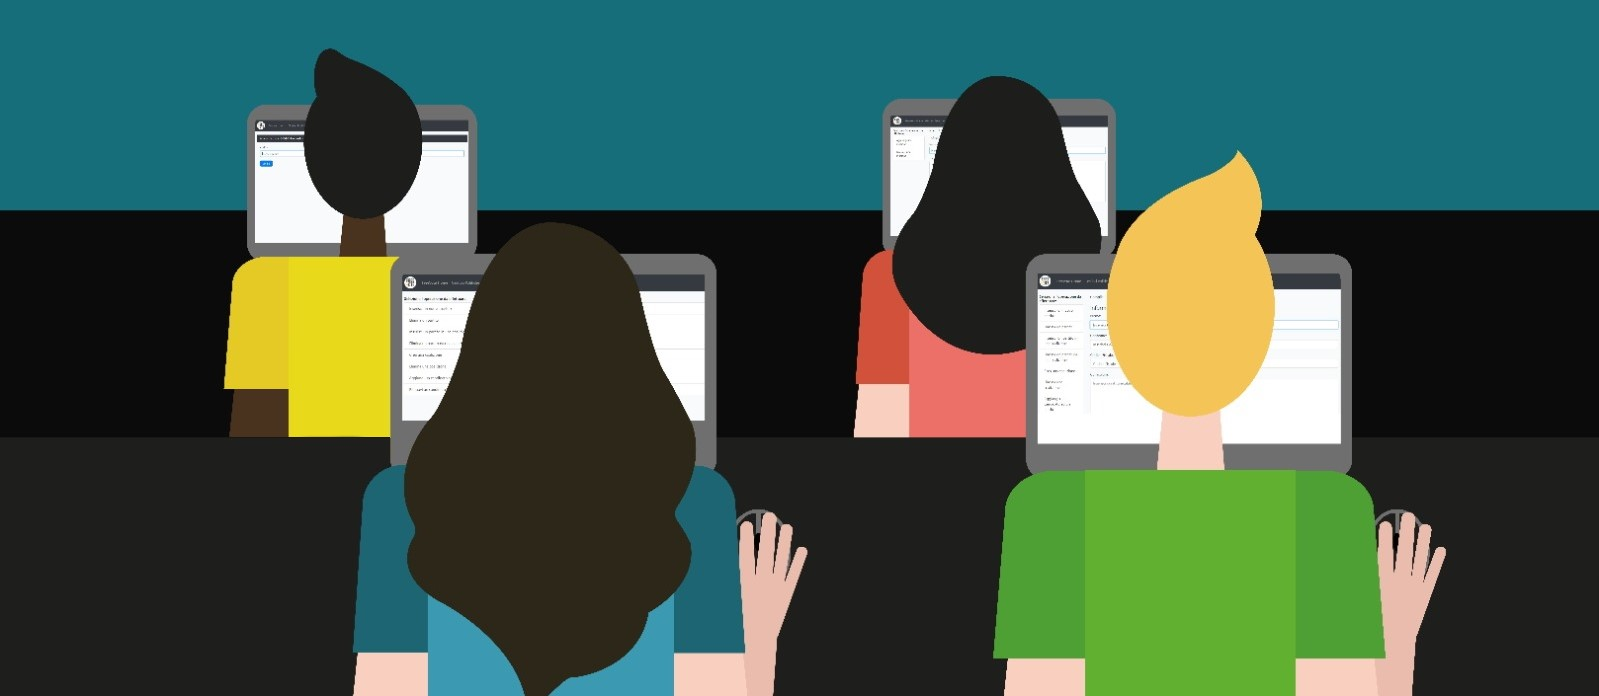
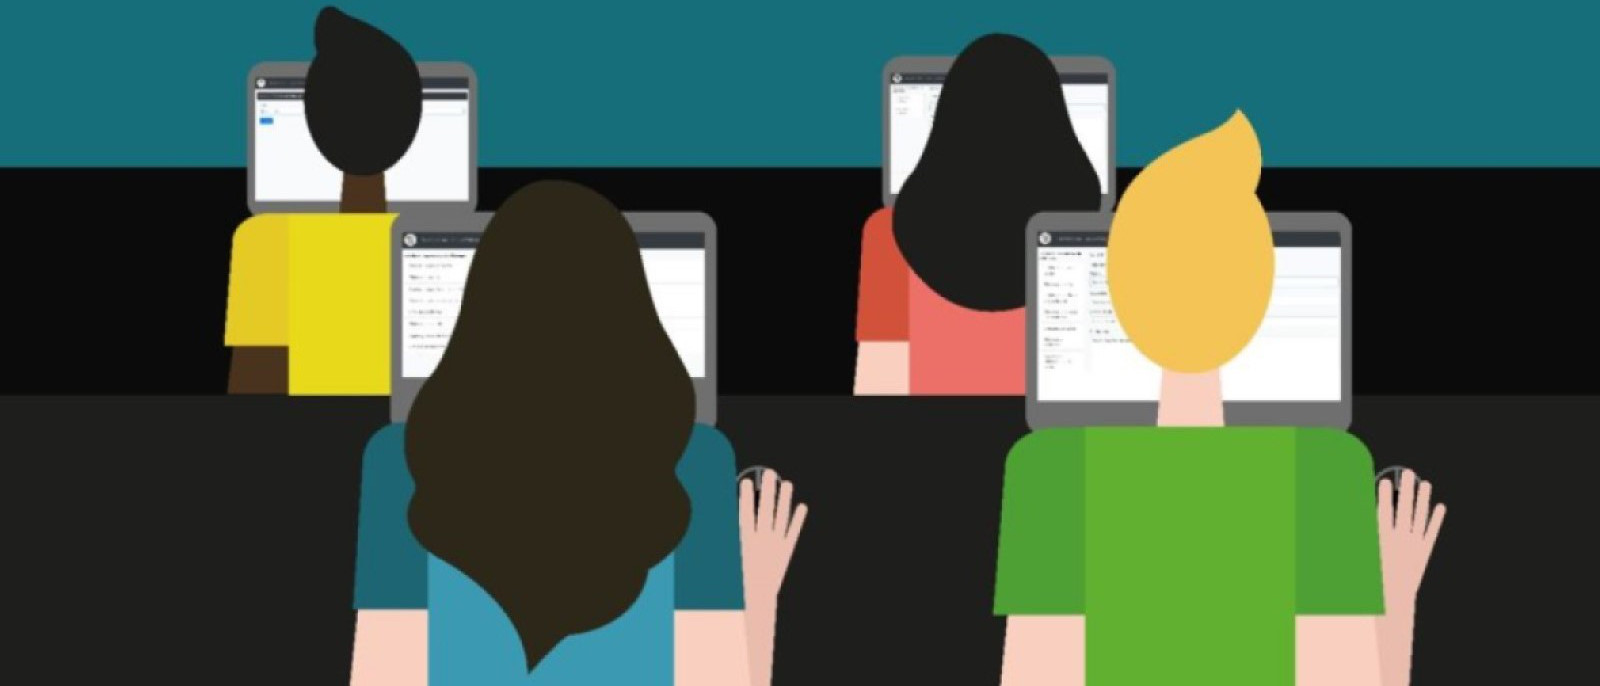
Sistemata interfaccia admin + altri piccoli cambiamenti

Changed region(s): [[0.0, 0.0, 1.0, 1.0], [0.8274, 0.4592, 0.858, 0.4898]]

diff --git a/FreeVote/WebContent/css/style.css b/FreeVote/WebContent/css/style.css
@@ -27,7 +27,6 @@
 	.sezione-immagini .testo{
 		padding: 7rem;
 	}
-
 }
 
 .autori {
@@ -46,13 +45,6 @@
 	padding-bottom: 14rem;
 }
 
-.center {
-	display: block;
-	margin-left: auto;
-	margin-right: auto;
-	width: 15%;
-}
-
 .sezione-icone{
 	font-size: 50px;
 }
@@ -66,27 +58,16 @@
 }	
 
 .bg-interfaccia-admin {
-	 background-image: url('../imgs/interfacciaAdmin.jpeg');
-	 background-position:bottom; 
-	 background-size: cover;
-	 background-repeat:no-repeat;
-	 background-attachment: fixed;
-}	
-
-#xl {
-	display:none;	
+		background-color: #156e7a;
 }
 
-@media screen and (max-width: 540px){
-	.bg-interfaccia-admin {
-		background-image: url('../imgs/interfacciaAdminMobile.png');
-	    background-position:bottom; 
-	    background-size: cover;
-		background-repeat:no-repeat;
-	    background-attachment: fixed;
-	}
+.banner-admin {
+	position:absolute;
+	bottom:0;
+}
 	
-	.text-interfaccia-mobile {
+@media screen and (max-width: 540px){
+	.text-interfaccia-admin {
 		margin: 0;
 		position: absolute;
 		top: 40%;
@@ -100,19 +81,8 @@
 	}
 }
 
-@media screen and (min-width: 1366px){
-	
-	#cell {
-		display:none;
+@media screen and (min-width: 1300px){
+	.banner-admin {
+		position:static;
 	}
-
-	#xl {
-		display: block;
-	}
-	
-}
-
-.myalert-dark {
-	color:#FFF;
-	background-color: rgb(52,58,64);
-}
+}	
